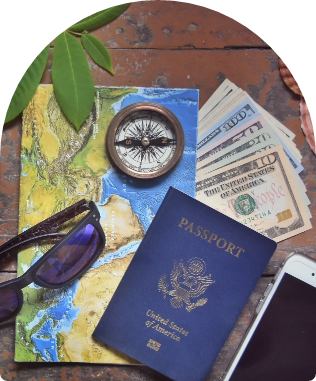
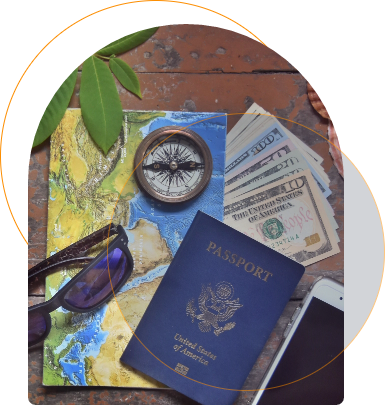
adding some style condition and fixed responsive style

diff --git a/src/app/component/trip-steps/step-card/step-card.component.scss b/src/app/component/trip-steps/step-card/step-card.component.scss
@@ -1,23 +1,29 @@
 @import '../../../../styles.scss';
 
+.counter{
+  counter-reset: my-number;
+
+}
 .card-child-container{
   display: flex;
   margin-inline: 200px;
-  gap:100px;
-
-  margin-block: 200px;
+   gap:100px;
+   margin-block: 200px;
+  align-items: center;
+  &.reverse{
+    flex-direction: row-reverse;
+  }
   .card-text-container{
-    counter-reset: my-number;
-
     position: relative;
     &::before{
       content: "0"counter(my-number);
       counter-increment: my-number;
       color: rgba($color: $orang-color, $alpha: 20%);
       @include font(bold,150px);
+
       position: absolute;
-      bottom: 240px;
-      left: -70px;
+      inset-block-end: 159px;
+      inset-inline-start: -70px;
     }
     .card-title{
       @include font(500,35px);
@@ -27,7 +33,7 @@
     .card-text{
       @include font(400,16px);
       color:$gray-light-color;
-      margin-block-start: 20px;
+      margin-block-start: 25px;
     }
 
 .card-link{
@@ -44,36 +50,22 @@
 }
 
   }
-  .card-image{
-    width: 330px;
-    height: 400px;
-    margin-block-start: -65px;
-    position:relative ;
-    &::before{
-      content:'';
-      background-image: url(../../../../assets/images/circle-glass.png);
-      position: absolute;
-      top:20px;
-      right: 10px;
-    }
-
-  }
+   
 }
 @include respond(medium){
   .card-child-container{
-
     flex-direction: column-reverse;
     align-items: center;
     text-align: center;
-     margin-inline: 0;
-      gap: 30px;
-
+    margin-inline: 0;
+    gap: 30px;
+    margin-block: 100px;
+  &.reverse{
+    flex-direction: column-reverse;
+  }
   .card-text-container{
     &::before{
-      @include font(bold,100px);
-
-      bottom: 93px;
-      left: 66px;
+      display: none;
     }
         .card-title{
           @include font(500,25px);
@@ -88,19 +80,12 @@
         }
 
   }
-  .card-image{
-    width: 250px;
-    height: 300px;
-  }
+ 
 }
 }
 @include respond(small){
   .card-child-container{
     .card-text-container{
-      &::before{
-        bottom:81px;
-        left: 10px;
-      }
           .card-title{
             @include font(500,20px);
             line-height: 20px;

diff --git a/src/app/component/trip-steps/trip-steps.component.ts b/src/app/component/trip-steps/trip-steps.component.ts
@@ -6,5 +6,19 @@ import { Component } from '@angular/core';
   styleUrls: ['./trip-steps.component.scss']
 })
 export class TripStepsComponent {
-
+cards=[{image:'../../../assets/images/first-card-image.png',
+  title:'Plan your travel budget never more easy!',
+  text:'Budget is an important factor that helps you to choose where to travel. Now we Made it easier for people to plan their vacations with a limited budget by suggesting places like hotels and restaurants that suit everyone budget.',
+},
+{
+  image:'../../../assets/images/second-card-image.png',
+  title:'Explore and discover new destinations',
+  text:'There are so many places to explore and discover, and each one has its own unique charm. Whether you’re looking for a relaxing beach vacation, an adventurous trek through the mountains, or a cultural experience in a bustling city, there’s a destination out there that’s perfect for you!',
+},
+{
+  image:'../../../assets/images/third-card-image.png',
+  title:'Traveling experts help you live the best adventure!',
+  text:'Whether you’re looking for a relaxing beach vacation or an adrenaline- pumping safari, we can help you find the perfect destination and activities. Our experts can also help you with everything from booking flights and hotels to arranging visas and insurance.',
+}
+]
 }

diff --git a/src/app/component/trip-steps/step-card/step-card.component.html b/src/app/component/trip-steps/step-card/step-card.component.html
@@ -1,12 +1,18 @@
-<div class="card-child-container">
-  <div class="card-text-container counter">
-    <h3 class="card-title">Plan your travel budget <br> never more easy!</h3>
-     <p class="card-text">Budget is an important factor that helps you to choose where to travel.<br> Now we Made it easier for people to plan their vacations with a limited budget by suggesting places like hotels and restaurants that suit everyone budget.</p>
-<div class="card-link">
-  <a href="#" class="start-link">Start now</a>
-  <span class="arrow"> > </span>
-  </div>
-  </div>
+<div class="counter">
+  <ng-container *ngFor="let card of contentCards ; let i=index">
+    <div class="card-child-container "  [class.reverse]="i === 1" >
+      <!-- -->
+      <div class="card-text-container">
+        <h3 class="card-title">{{card.title}}</h3>
+         <p class="card-text">{{card.text}}</p>
+    <div class="card-link">
+      <a href="#" class="start-link">Start now</a>
+      <span class="arrow"> > </span>
+      </div>
+    </div>
+      <img class="card-image" src={{card.image}} alt="image">
+    </div>
 
-  <img class="card-image" src="../../../../assets/images/first-card-image.png" alt="image">
+  </ng-container>
+  
 </div>

diff --git a/src/app/component/trip-steps/trip-steps.component.html b/src/app/component/trip-steps/trip-steps.component.html
@@ -1,7 +1,8 @@
+
 <section class="trip-steps-container">
   <div class="info-trip-steps">
     <h2 class="title-trip-steps">How we can help your trip</h2>
     <p class="description-trip-steps">We are passionate travelers that spent years exploring the world, we are also non-profit <br> travel guide who want to support new travelers to live the best experience</p>
   </div>
-  <app-step-card></app-step-card>
+  <app-step-card [contentCards]="cards"></app-step-card>
 </section>

diff --git a/src/app/component/hero-section/hero-section.component.scss b/src/app/component/hero-section/hero-section.component.scss
@@ -100,8 +100,8 @@
           content: "";
           background-image: url("../../../assets/images/design-under-word-hero-section.svg");
           position: absolute;
-          inset-block-end: -33px;
-          inset-inline-start: 150px;
+          inset-block-end: -31px;
+          inset-inline-start: 177px;
           transform: translate(-50%, -50%);
           width: 85%;
           height: 24px;

diff --git a/src/app/component/trip-steps/step-card/step-card.component.ts b/src/app/component/trip-steps/step-card/step-card.component.ts
@@ -1,4 +1,4 @@
-import { Component } from '@angular/core';
+import { Component, Input } from '@angular/core';
 
 @Component({
   selector: 'app-step-card',
@@ -6,5 +6,5 @@ import { Component } from '@angular/core';
   styleUrls: ['./step-card.component.scss']
 })
 export class StepCardComponent {
-
+ @Input() public contentCards:any;
 }

diff --git a/src/styles.scss b/src/styles.scss
@@ -9,7 +9,7 @@ $orang-dark-color: #FF6700;
 
 @mixin respond($breakpoint) {
   @if($breakpoint == medium)  {
-    @media (max-width: 700px) { @content }
+    @media (max-width: 1100px) { @content }
   }
   @if($breakpoint == small)  {
     @media (max-width: 500px) { @content }
